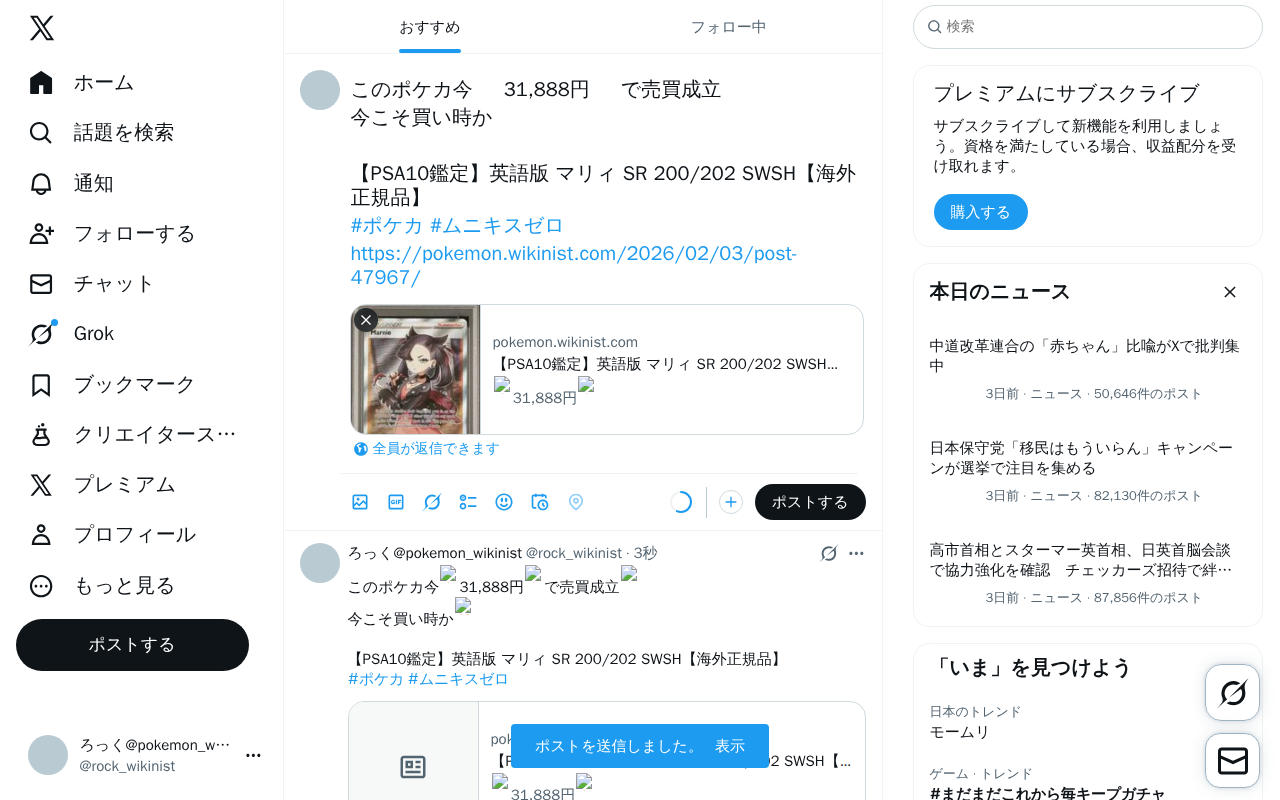
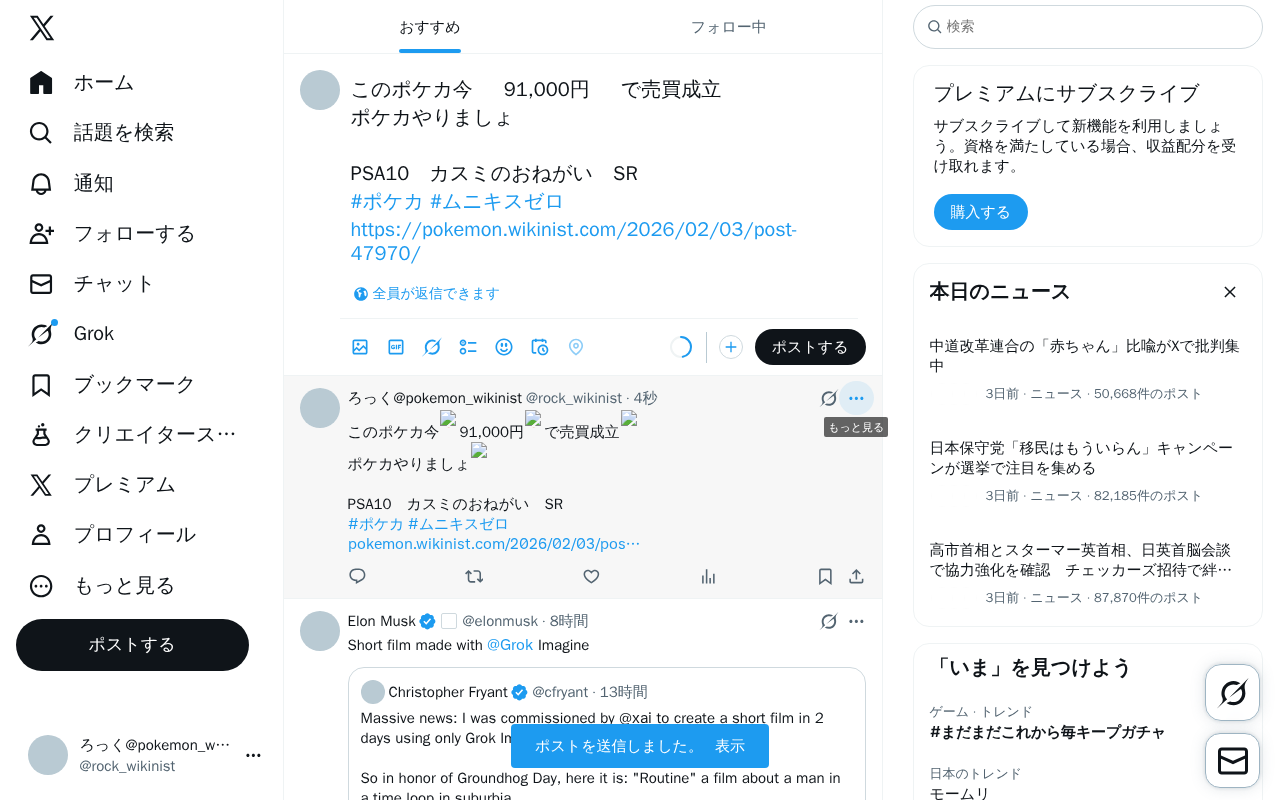
update system data

diff --git a/content/posts/test-pokemon-20260203-123403.md b/content/posts/test-pokemon-20260203-123403.md
@@ -1,0 +1,37 @@
+---
+title: "PSA10　カスミのおねがい　SR"
+date: 2026-02-03T12:34:03+09:00
+description: "🔥91,000円🔥 メルカリで「PSA10　カスミのおねがい　SR」が販売中！"
+amazon_url: "https://jp.mercari.com/item/m67513589236?afid=1391290753"
+categories: ["ポケモン"]
+tags: ["カスミ", "5万円以上"]
+cover:
+  image: "https://static.mercdn.net/thumb/item/webp/m67513589236_1.jpg?1770088956"
+  hiddenInList: true
+  hiddenInSingle: true
+---
+
+<div class="image-and-buttons">
+    <div class="image-area" style="margin-bottom: 20px; text-align: center;">
+        <a href="https://jp.mercari.com/item/m67513589236?afid=1391290753" target="_blank" rel="nofollow sponsored noopener noreferrer">
+            <img src="https://static.mercdn.net/thumb/item/webp/m67513589236_1.jpg?1770088956" alt="91,000" style="max-width: 100%; border-radius: 8px; border: 1px solid #ddd;" />
+        </a>
+        <br><span style="font-size:1.5em;color:red;font-weight:bold;">🔥91,000円🔥</span>
+    </div>
+    <div class="link-buttons">
+        <a href="https://jp.mercari.com/item/m67513589236?afid=1391290753" target="_blank" rel="nofollow sponsored noopener noreferrer">
+            💎 商品状態を見る
+        </a>
+        <a href="https://jp.mercari.com/search?afid=1391290753&category_id=1289&keyword=PSA10%E3%80%80%E3%82%AB%E3%82%B9%E3%83%9F%E3%81%AE%E3%81%8A%E3%81%AD%E3%81%8C%E3%81%84%E3%80%80SR" target="_blank" rel="nofollow sponsored noopener noreferrer">
+            🔍 類似商品を見る
+        </a>
+        <a href="https://jp.mercari.com/search?afid=1391290753&brand_id=&category_id=1289&color_id=&item_condition_id=&item_types=&keyword=PSA10%E3%80%80%E3%82%AB%E3%82%B9%E3%83%9F%E3%81%AE%E3%81%8A%E3%81%AD%E3%81%8C%E3%81%84%E3%80%80SR&order=desc&shipping_method=&shipping_payer_id=&size_id=&sort=created_time&status=sold_out%2Ctrading" target="_blank" rel="nofollow sponsored noopener noreferrer">
+            📈 価格推移・履歴を見る
+        </a>
+    </div>
+</div>
+
+<p style="font-size:1.0em;color:#555;line-height:1.6;">
+「PSA10　カスミのおねがい　SR」はメルカリに出品されました！<br>
+最新のポケモン情報は当サイトで随時更新中です。
+</p>
